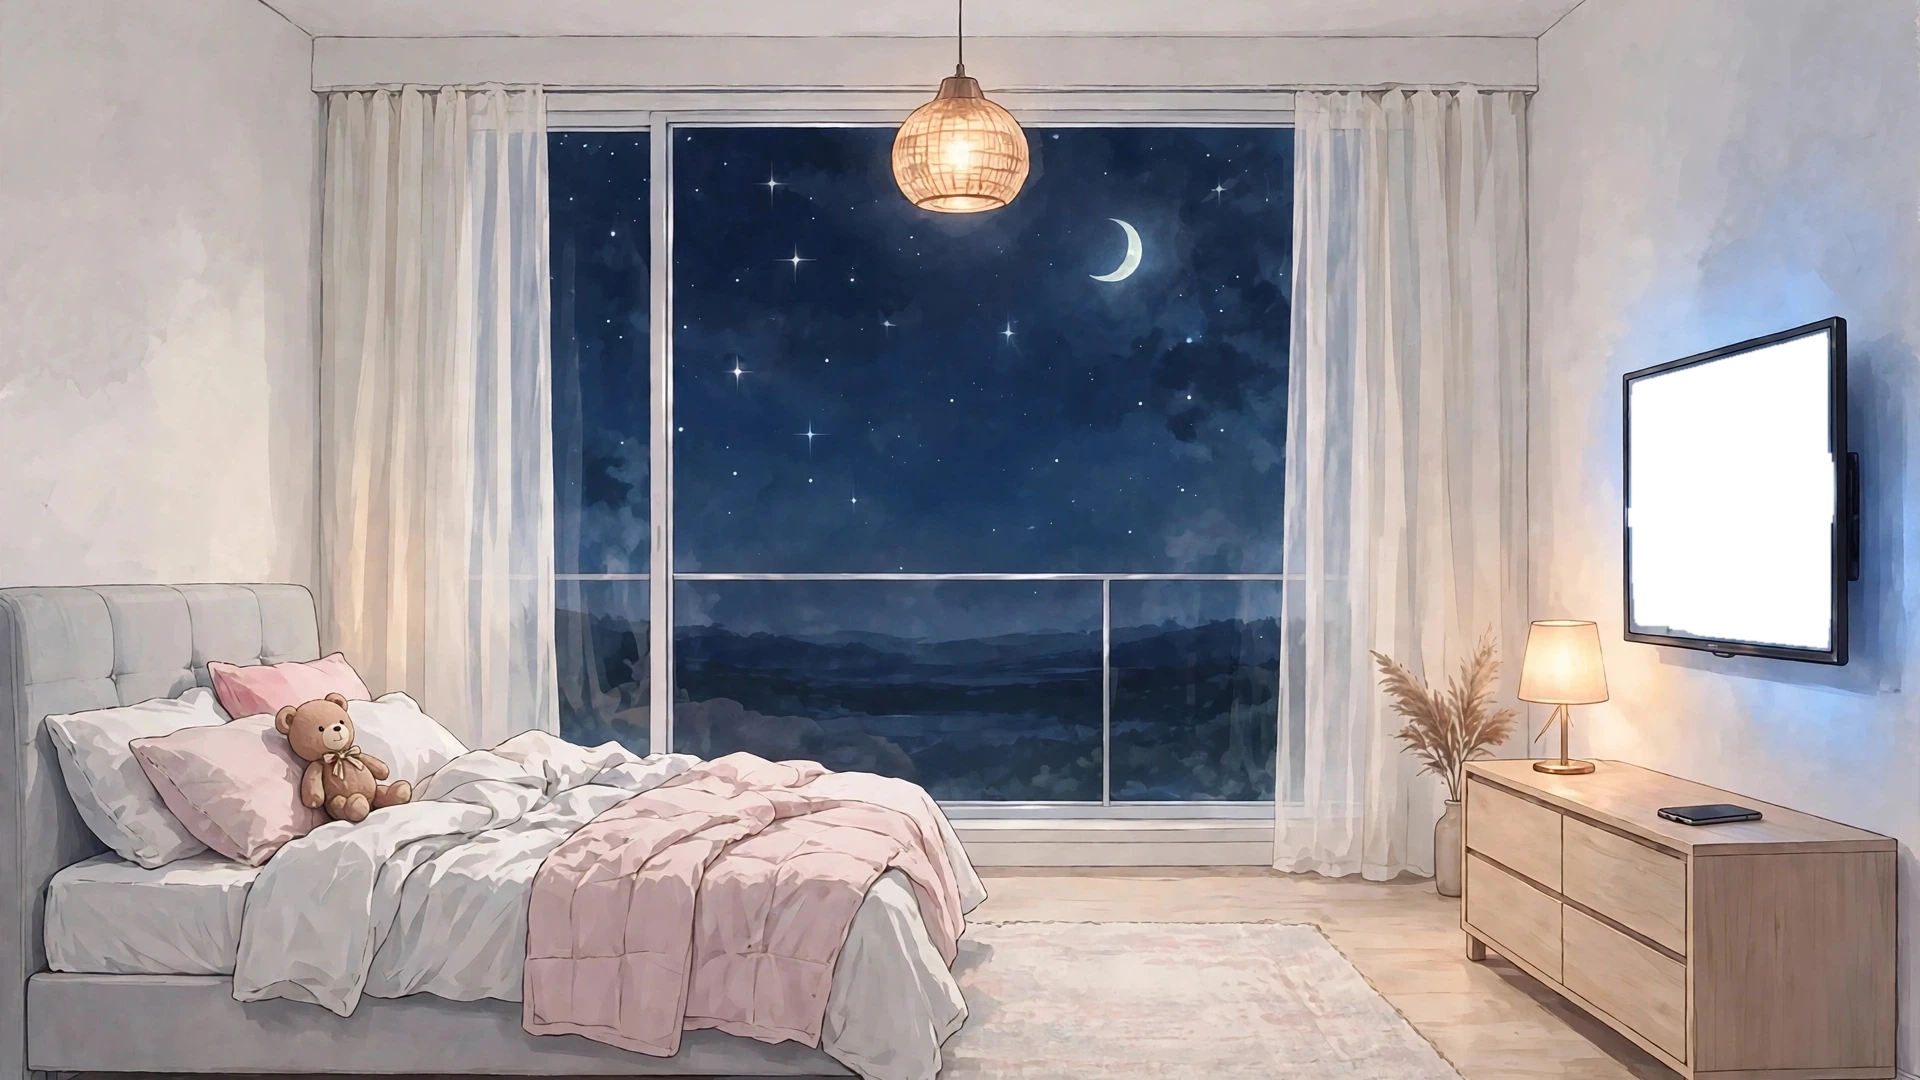
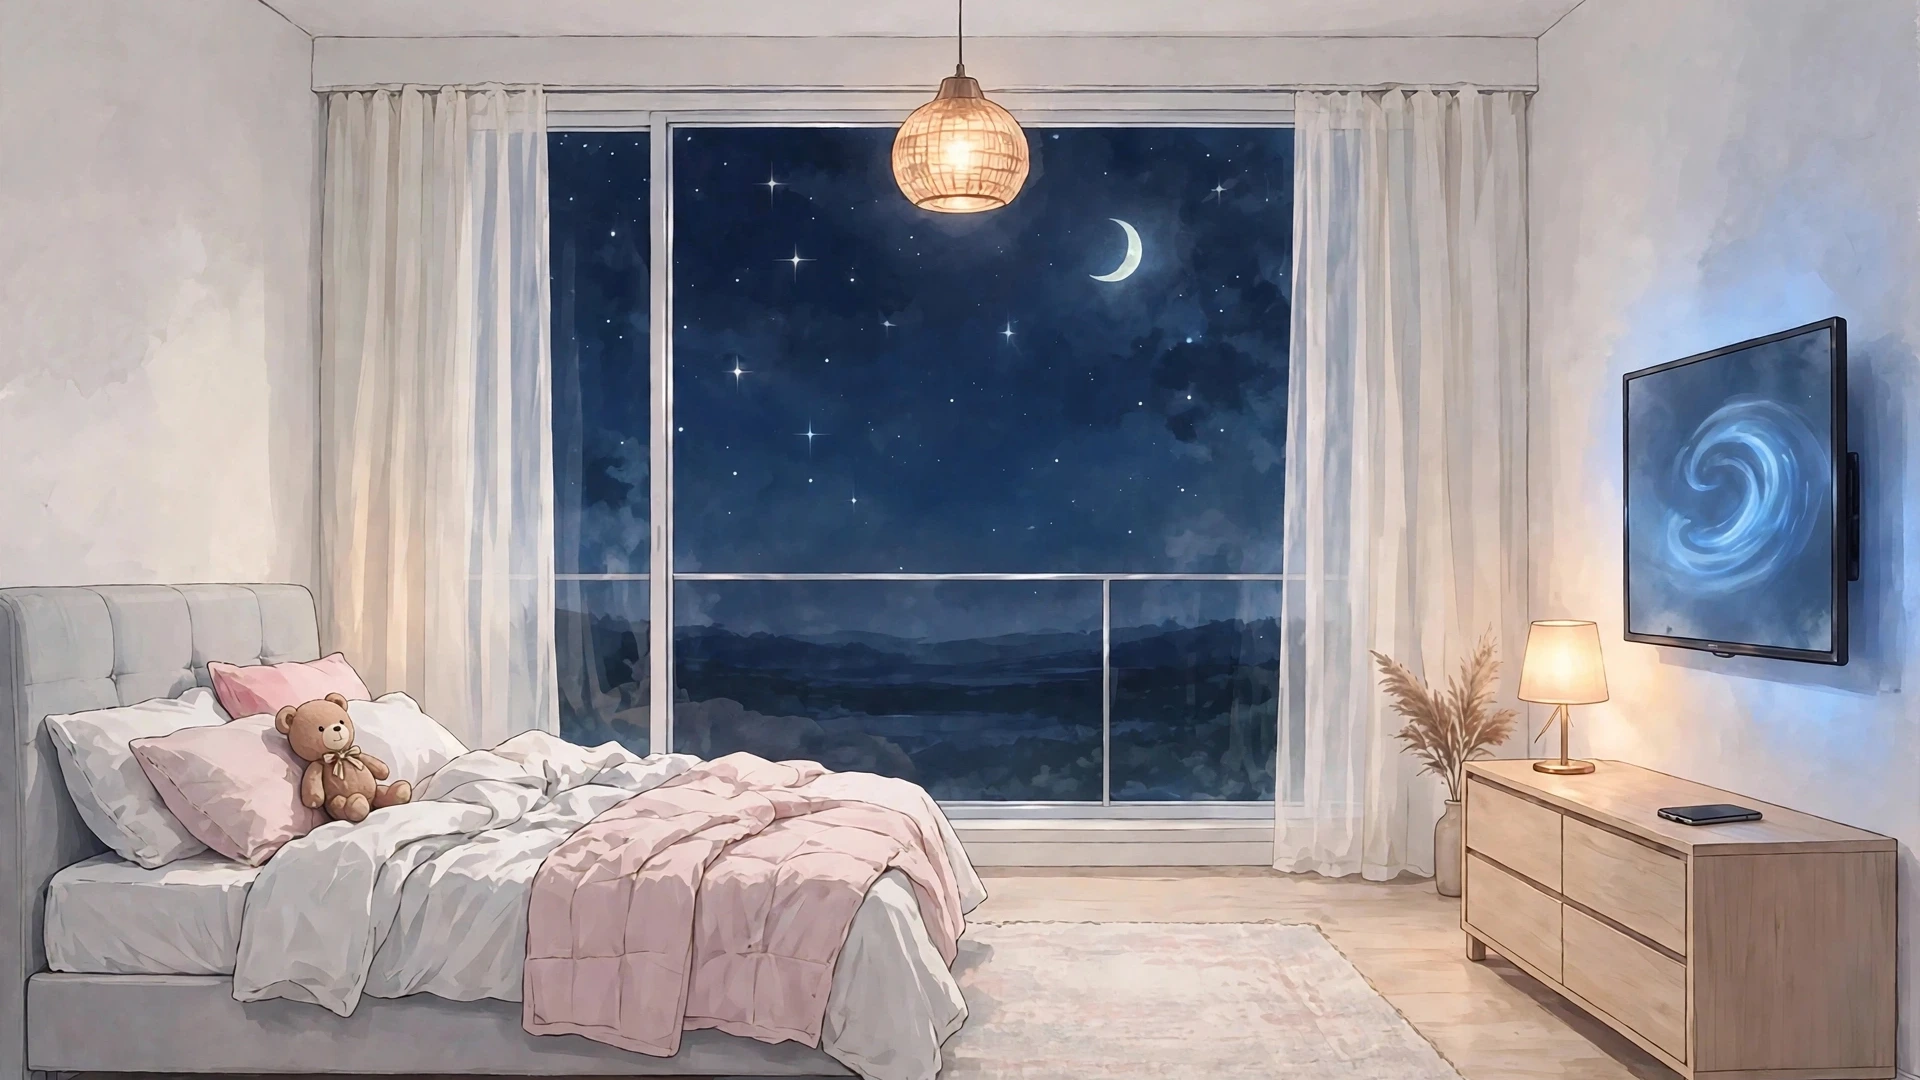
Revert the painted-TV window (2026-11-15, Daniels order): the cut-out mask and the behind-layer stage are deleted entirely after repeated panel mismatches, the plates are restored uncut (swirl screen is just a painting again), and the clock goes back to where it was -- the top-right corner overlay (

Changed region(s): [[0.8438, 0.3056, 0.9688, 0.6111]]

diff --git a/web/index.html b/web/index.html
@@ -18,11 +18,8 @@
 #daywin{left:26%;top:3%;width:41.5%;height:72%;background:radial-gradient(circle at 72% 20%, rgba(255,244,190,.95), rgba(255,244,190,0) 42%),linear-gradient(180deg,#79bfe8 0%,#cfeafb 58%,#a9cba0 100%);opacity:0;transition:opacity 1.5s ease}
 @keyframes sgpulse{0%,100%{opacity:.45}50%{opacity:1}}
 #phonedelta{position:absolute;inset:0;width:100%;height:100%;object-fit:cover;opacity:0;transition:opacity .6s ease}
-#tvstage{position:absolute;left:83%;top:26.8%;width:15.2%;height:37.6%;background:radial-gradient(120% 95% at 50% 38%,#16355f 0%,#0a1c3a 58%,#060f24 100%);color:#e8f6ff;font-family:system-ui,sans-serif;display:flex;flex-direction:column;align-items:center;justify-content:center;pointer-events:none;transform:perspective(1100px) rotateY(-30deg) rotate(-5deg);padding-right:5%}
-#tvstage .tt{font-size:2.85vw;font-weight:600;line-height:1.05;white-space:nowrap}
-#tvstage .ta{font-size:1vw;font-weight:500;opacity:.92;margin-top:1.4vh;white-space:nowrap}
 </style>
-<div id="bgwrap"><div id="tvstage"><div class="tt"></div><div class="ta"></div></div><img id="roombg" src="assets/room2-base.webp" alt=""><img id="roombg-off" src="assets/room2-lightoff.webp" alt=""><img id="roombg-sleep" src="assets/room2-sleep.webp" alt="">
+<div id="bgwrap"><img id="roombg" src="assets/room2-base.webp" alt=""><img id="roombg-off" src="assets/room2-lightoff.webp" alt=""><img id="roombg-sleep" src="assets/room2-sleep.webp" alt="">
 <div id="daywin"></div>
 
 <img id="phonedelta" src="assets/room2-phonedelta.webp" alt=""></div>
@@ -131,7 +128,14 @@
     } catch (e) {}
   }, 150);
 })();
-</script><div id="dimveil"></div><script>
+</script><style>
+#clock { position: fixed; top: 26px; right: 38px; text-align: right; z-index: 5;
+  color: #fff; font-family: system-ui, 'Segoe UI', sans-serif;
+  text-shadow: 0 1px 10px rgba(0,0,0,.45), 0 0 2px rgba(0,0,0,.35); pointer-events: none; }
+#clock .t { font-size: 54px; font-weight: 600; letter-spacing: .01em; line-height: 1; }
+#clock .d { font-size: 19px; font-weight: 500; opacity: .85; margin-top: 5px; }
+#clock .a { font-size: 19px; font-weight: 500; opacity: .85; margin-top: 5px; }
+</style><div id="clock"><div class="t"></div><div class="d"></div><div class="a"></div></div><div id="dimveil"></div><script>
 // TV brightness: lyra-web /dim is the single source of truth (voice tool + dashboard write it)
 async function pollDim(){ try{ const j = await (await fetch('/dim')).json(); document.getElementById('dimveil').style.opacity = (1 - j.brightness).toFixed(3); }catch(e){} }
 setInterval(pollDim, 1200); pollDim();
@@ -239,32 +243,51 @@ setInterval(pollRing, 700); pollRing();
 })();
 </script>
 <script>
-// Painted-TV window (2026-11-15, room v2, Daniels design): the
-// screen is CUT OUT of all three plates on its exact glass
-// boundary, and #tvstage lives BEHIND the plates as the bottom
-// child of #bgwrap -- a layer seen through the cut, like a
-// window. The painting crops it, so the boundary is exact by
-// construction; the stage itself only carries a single plane
-// tilt matching the wall (CSS transform). No text-shadow: the
-// time stays crisp, the alarm line sits small beneath it.
-// Anything can be dropped into #tvstage later.
+// Display clock (2026-11-15): top-right corner; the page is an
+// always-on display. 12-hour time + short date, dimmed along with
+// the scene by the brightness veil (it sits under #dimveil).
 (function(){
-  var stage = document.getElementById('tvstage');
-  if (!stage) return;
-  var tt = stage.querySelector('.tt'), ta = stage.querySelector('.ta');
-  function tick() { tt.textContent = new Date().toLocaleTimeString('en-US', {hour: 'numeric', minute: '2-digit'}); }
-  tick(); setInterval(tick, 5000);
-  function fmt(j) {
-    if (j.ringing) return '⏰ now';
-    if (!j.enabled || !j.next_fire) return '';
-    var nf = new Date(j.next_fire), now = new Date();
-    var time = nf.toLocaleTimeString('en-US', {hour: 'numeric', minute: '2-digit'});
-    var tmr = new Date(now); tmr.setDate(tmr.getDate() + 1);
-    var day = nf.toDateString() === now.toDateString() ? 'Today' : (nf.toDateString() === tmr.toDateString() ? 'Tomorrow' : nf.toLocaleDateString('en-US', {weekday: 'short'}));
-    return '⏰ ' + day + ' ' + time;
+  const tEl = document.querySelector('#clock .t'), dEl = document.querySelector('#clock .d');
+  let last = '';
+  function tick(){
+    const now = new Date();
+    const t = now.toLocaleTimeString('en-US', {hour: 'numeric', minute: '2-digit'});
+    if (t !== last) {
+      last = t;
+      tEl.textContent = t;
+      dEl.textContent = now.toLocaleDateString('en-US', {weekday: 'short', month: 'short', day: 'numeric'});
+    }
   }
-  async function ap() { try { var j = await (await fetch('/alarm', {cache: 'no-store'})).json(); ta.textContent = fmt(j); } catch (e) {} }
-  ap(); setInterval(ap, 30000);
+  setInterval(tick, 1000); tick();
+})();
+</script>
+<script>
+// Next alarm under the clock (2026-11-15, Daniel's ask): polls
+// lyra-web's /alarm (the core's alarm summary) every 30 s and shows
+// the next fire -- Today / Tomorrow / weekday + 12-hour time.
+(function(){
+  const aEl = document.querySelector('#clock .a');
+  if (!aEl) return;
+  function fmt(j) {
+    if (j.ringing) return '🚨 Now';
+    if (!j.enabled || !j.next_fire) return '';
+    const nf = new Date(j.next_fire), now = new Date();
+    const time = nf.toLocaleTimeString('en-US', {hour: 'numeric', minute: '2-digit'});
+    const sameDay = nf.toDateString() === now.toDateString();
+    const tmr = new Date(now); tmr.setDate(tmr.getDate() + 1);
+    const day = sameDay ? 'Today' : (nf.toDateString() === tmr.toDateString() ? 'Tomorrow'
+      : nf.toLocaleDateString('en-US', {weekday: 'short'}));
+    return '🚨 ' + day + ' ' + time;
+  }
+  async function tick() {
+    try {
+      const r = await fetch('/alarm', {cache: 'no-store'});
+      const j = await r.json();
+      aEl.textContent = fmt(j);
+      aEl.style.display = aEl.textContent ? '' : 'none';
+    } catch (e) { /* keep the last shown value */ }
+  }
+  setInterval(tick, 30000); tick();
 })();
 </script>
 </body></html>
